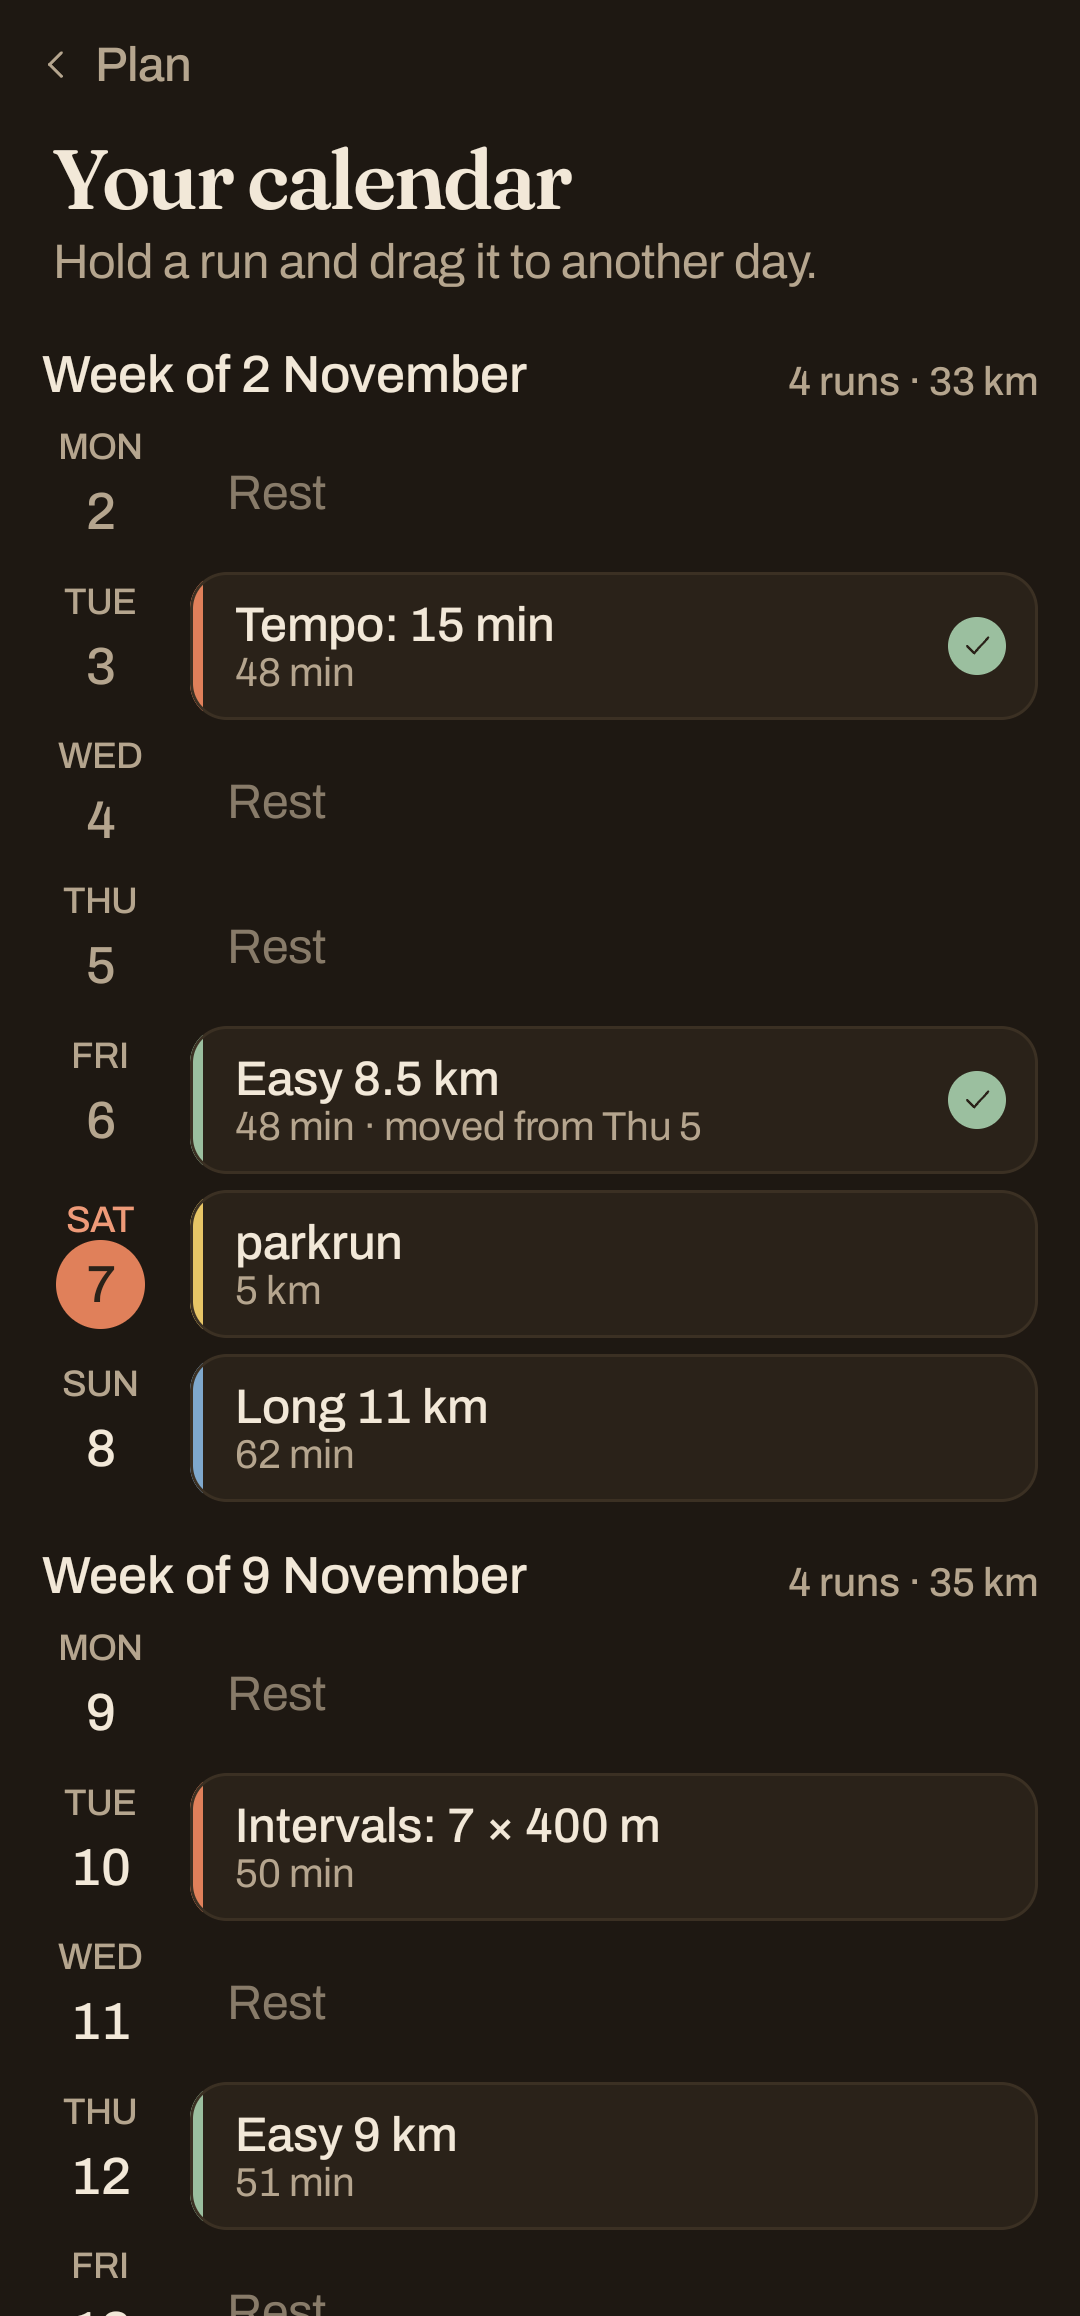
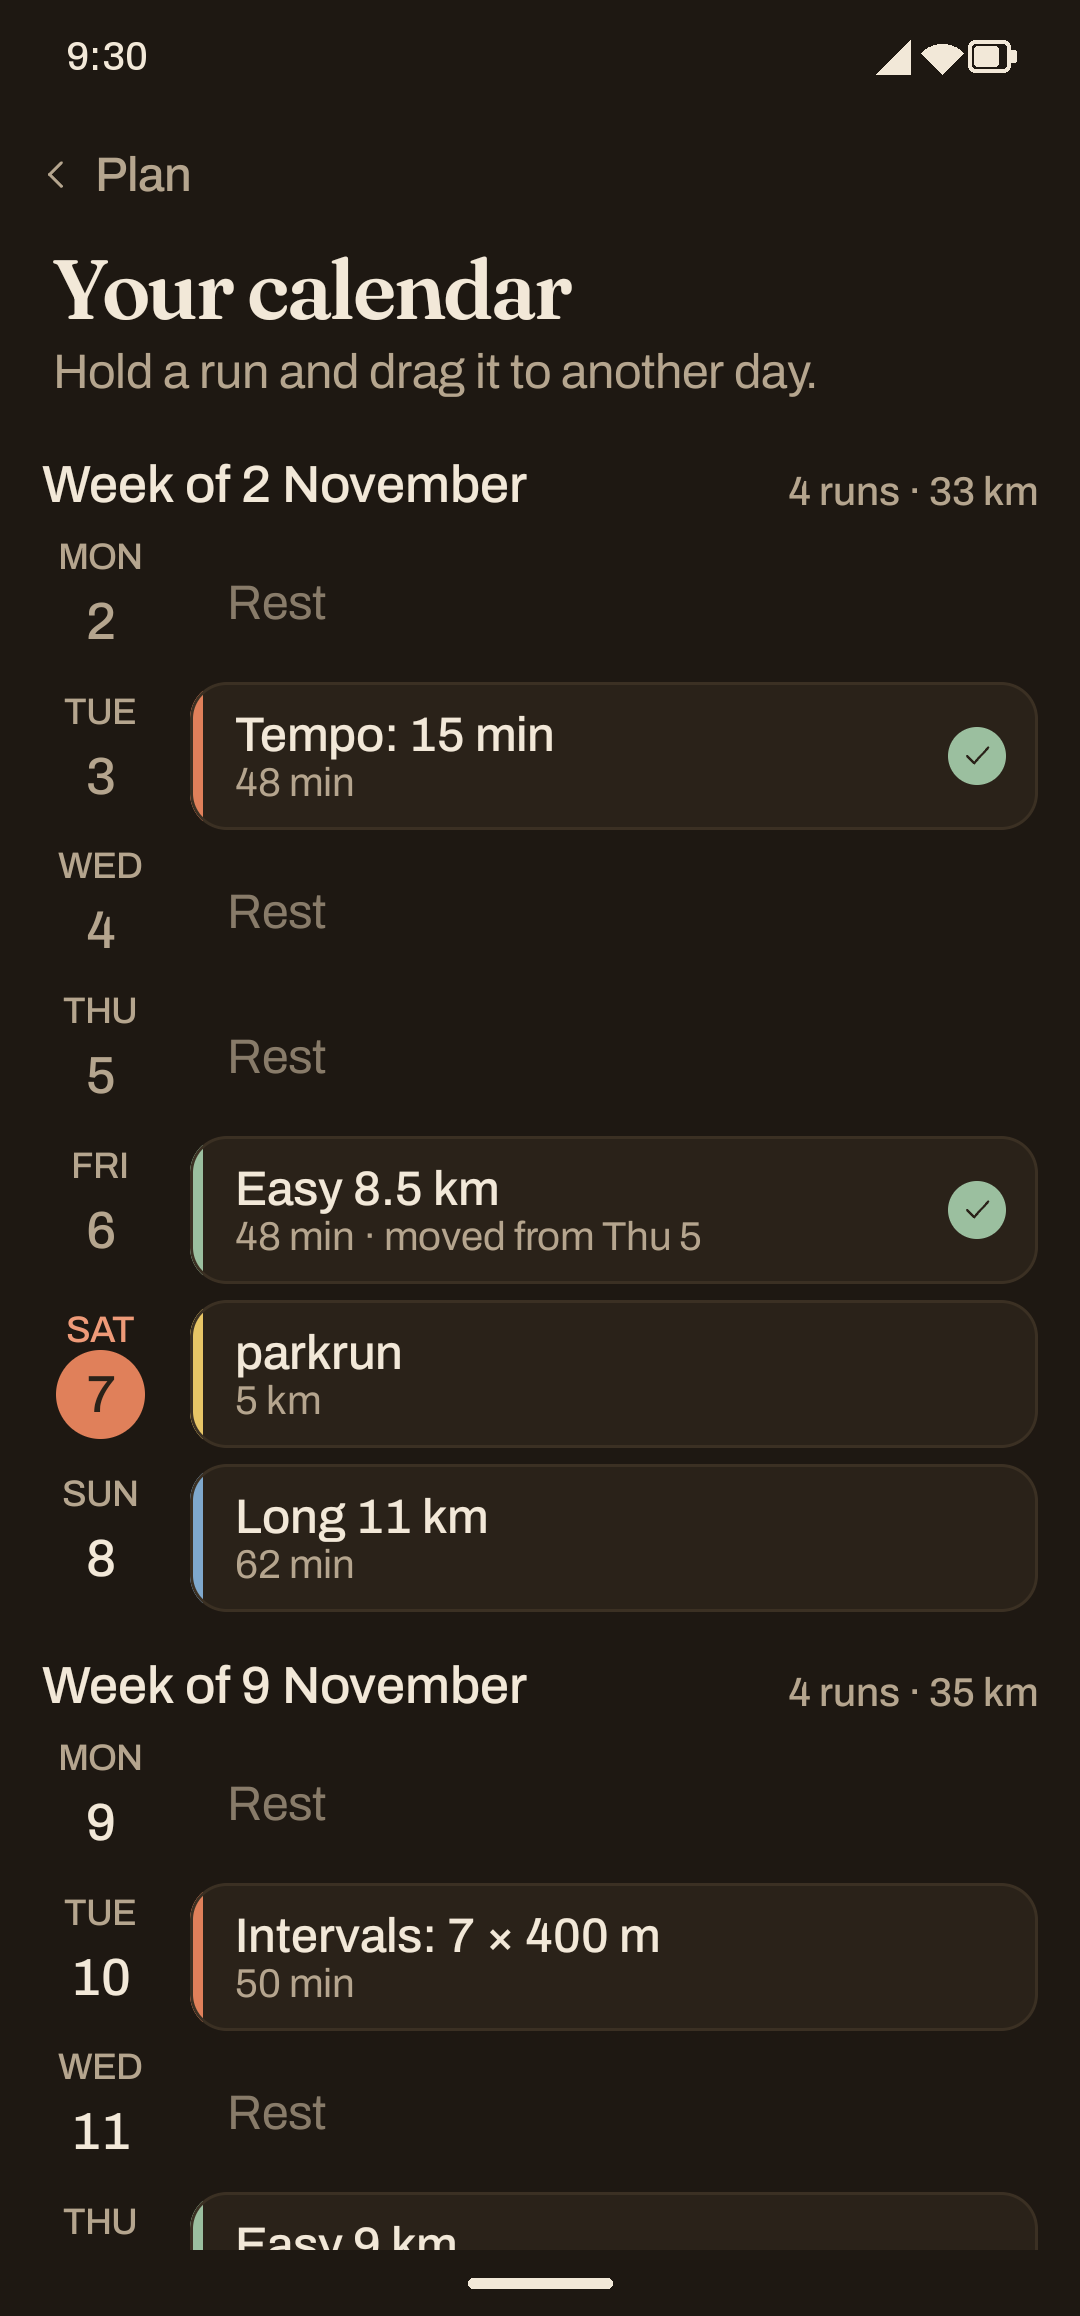
Phone screenshots get an Android status bar and gesture pill

diff --git a/scripts/chrome.py b/scripts/chrome.py
@@ -1,0 +1,56 @@
+"""Adds an Android status bar and gesture pill to the site's app screenshots, keeping their 1080x2316 size.
+
+The content gives up 176 rows: it's clipped just above the tab bar (as if scrolled under it), and the tab bar
+moves down to sit on the gesture area."""
+import sys
+from PIL import Image, ImageDraw, ImageFont
+FONT = "/home/smeeps/Projects/bao-run/shared/src/commonMain/composeResources/font/archivo_medium.ttf"
+W, H, TOP, BOTTOM = 1080, 2316, 110, 66
+
+def tab_bar_height(im):
+    """Rows from the bottom to the tab bar's top border, or 0 if there's no tab bar."""
+    px = im.load()
+    for y in range(H - 120, H - 300, -1):
+        row = [px[x, y] for x in range(40, W - 40, 20)]
+        below = [px[x, y + 4] for x in range(40, W - 40, 20)]
+        uniform = max(sum(c) for c in row) - min(sum(c) for c in row) < 12
+        if uniform and abs(sum(row[0]) - sum(below[0])) > 12 and abs(sum(row[0]) - sum(px[5, y - 4])) > 12:
+            return H - y
+    return 0
+
+def ink(bg):
+    return (43, 33, 24) if sum(bg) > 380 else (242, 232, 216)
+
+def chrome(path, out):
+    im = Image.open(path).convert("RGB")
+    t = tab_bar_height(im)
+    top_bg, bottom_bg = im.getpixel((5, 5)), im.getpixel((5, H - 3))
+    new = Image.new("RGB", (W, H), top_bg)
+    body = H - TOP - BOTTOM - t
+    new.paste(im.crop((0, 0, W, body)), (0, TOP))
+    if t: new.paste(im.crop((0, H - t, W, H)), (0, TOP + body))
+    d = ImageDraw.Draw(new)
+    d.rectangle((0, H - BOTTOM, W, H), fill=bottom_bg)
+    c = ink(top_bg)
+    # Time on the left; signal, wifi and battery on the right, either side of the camera.
+    d.text((66, 56), "9:30", font=ImageFont.truetype(FONT, 40), fill=c, anchor="lm")
+    x = W - 66
+    d.rounded_rectangle((x - 46, 40, x - 4, 72), radius=7, outline=c, width=4)
+    d.rounded_rectangle((x - 4, 50, x + 2, 62), radius=2, fill=c)
+    d.rounded_rectangle((x - 40, 46, x - 16, 66), radius=3, fill=c)
+    x -= 72
+    for i, r in enumerate((30, 21, 12)):
+        d.pieslice((x - r, 74 - r, x + r, 74 + r), 225, 315, fill=c if i == 0 else None, outline=c, width=0)
+    d.pieslice((x - 30, 44, x + 30, 104), 225, 315, fill=c)
+    x -= 66
+    d.polygon([(x, 74), (x + 34, 74), (x + 34, 40)], fill=c)
+    pill = ink(bottom_bg)
+    d.rounded_rectangle((W / 2 - 72, H - 38, W / 2 + 72, H - 28), radius=5, fill=pill)
+    new.save(out)
+    return t
+
+for theme in ("light", "dark"):
+    for name in ("today", "plan", "calendar", "rate", "progress", "rundetail", "garmin"):
+        src = f"/tmp/bao-dev/screens-orig/{theme}/{name}.png"
+        dst = f"/home/smeeps/Projects/runwithbao-site/src/assets/screens/{theme}/{name}.png"
+        print(theme, name, "tab bar", chrome(src, dst))
